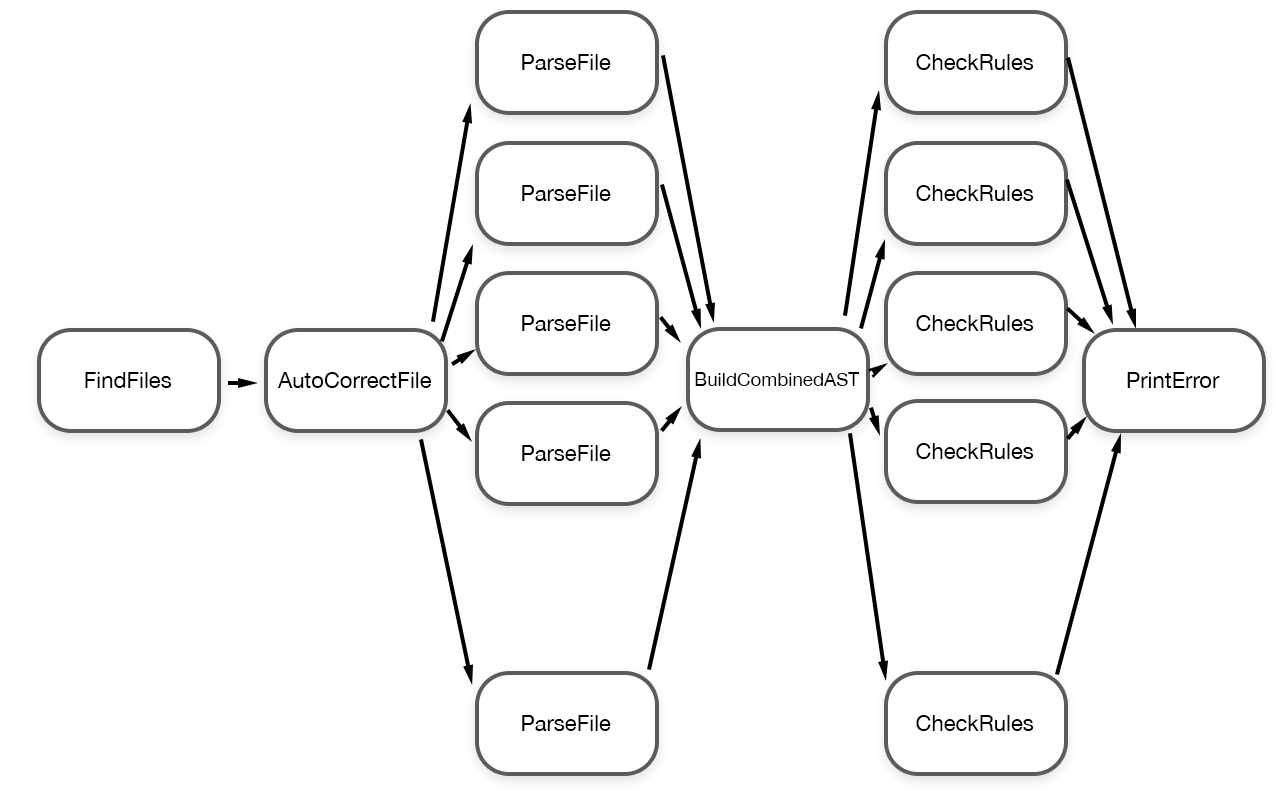
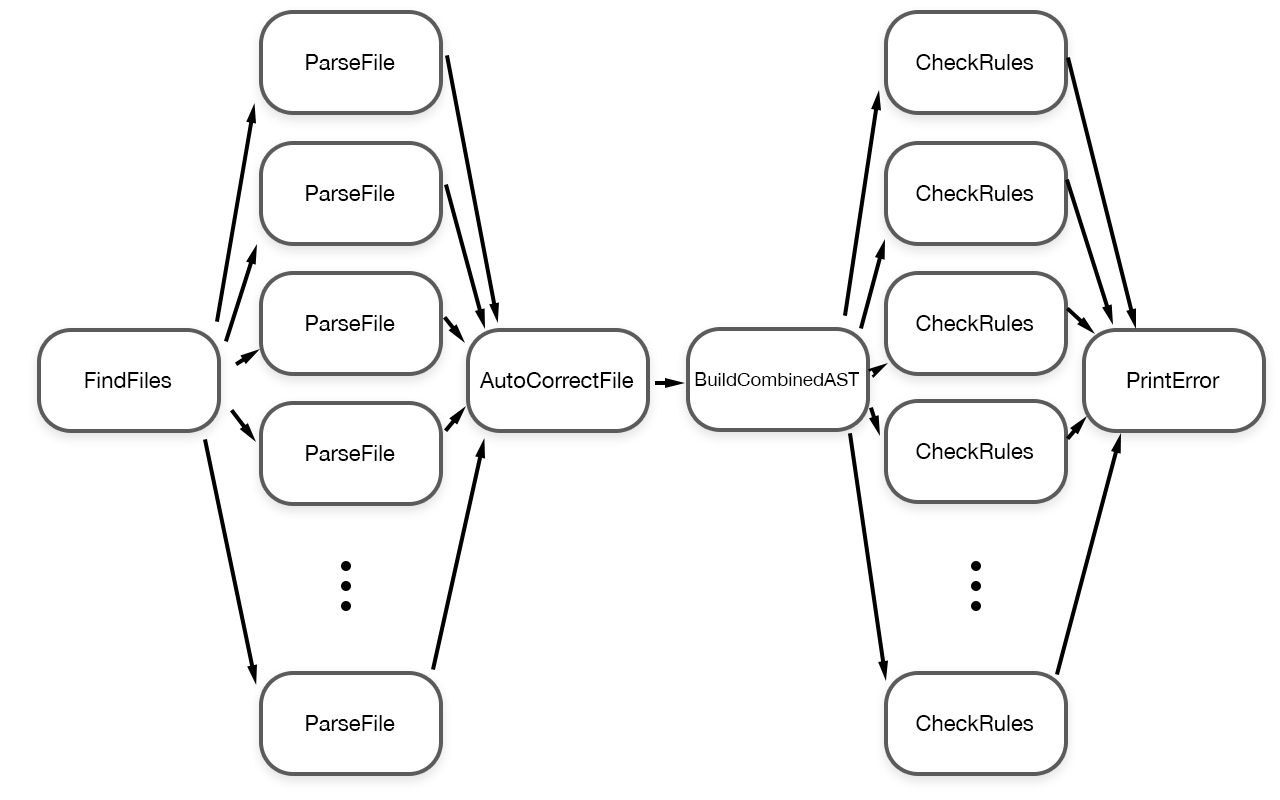
add suggestions for non-private variables in actors (ie safe/unsafe); updated readme to match reworked flynnlint

diff --git a/Package.swift b/Package.swift
@@ -11,7 +11,7 @@ let package = Package(
         .library(name: "FlynnLintFramework", targets: ["FlynnLintFramework"])
     ],
     dependencies: [
-		.package(url: "https://github.com/KittyMac/Flynn.git", .branch("ponyrt_v2")),
+		.package(url: "https://github.com/KittyMac/Flynn.git", .branch("master")),
         .package(url: "https://github.com/Carthage/Commandant.git", .upToNextMinor(from: "0.17.0")),
         .package(url: "https://github.com/KittyMac/SourceKitten.git", .branch("roc_master")),
         .package(url: "https://github.com/jpsim/Yams.git", from: "3.0.0"),

diff --git a/Sources/FlynnLintFramework/Rules/PrivateFunctionInActorRule.swift b/Sources/FlynnLintFramework/Rules/PrivateFunctionInActorRule.swift
@@ -19,7 +19,7 @@ struct PrivateFunctionInActorRule: Rule {
     let description = RuleDescription(
         identifier: "actors_private_func",
         name: "Access Level Violation",
-        description: "Non-private functions are not allowed in Actors; make this private, a behavior, or label it safe.",
+        description: "Non-private functions are not allowed in Actors; make this private, safe/unsafe, or a behavior",
         syntaxTriggers: [.class, .extension],
         nonTriggeringExamples: [
             Example("class SomeClass {}\n"),

diff --git a/Sources/FlynnLintFramework/Rules/PrivateVariablesInActorRule.swift b/Sources/FlynnLintFramework/Rules/PrivateVariablesInActorRule.swift
@@ -18,7 +18,7 @@ struct PrivateVariablesInActorRule: Rule {
     let description = RuleDescription(
         identifier: "actors_private_vars",
         name: "Access Level Violation",
-        description: "Non-private variables are not allowed in Actors.",
+        description: "Non-private variables are not allowed in Actors; make this private or safe/unsafe",
         syntaxTriggers: [.class, .extension],
         nonTriggeringExamples: [
             Example("class SomeClass {}\n"),

diff --git a/README.md b/README.md
@@ -22,8 +22,8 @@ pipeline = FindFiles(["swift"]) |>
 Each node in the graph is a Flynn actor.  An actor is and "island of serialization in a sea of concurrency", where an actor processes sequentually but concurrently to all other actors.
 
 **FindFiles** - walks the target directories looking for files ending in ".swift", flows the file path  
-**AutoCorrectFile** - checks to see if the file contains ``::BEHAVIOR`` or ``::ACTOR`` and replaces with templates, flows the file path  
 **ParseFile** - uses SourceKitten to parse the Swift file into syntax structures, flows a ``FileSyntax`` with this info  
+**AutogenerateExternalBehaviors** - checks the file for internal behaviors ( private functions which start with "_be" ) and automatically generates external behaviors if needed  
 **BuildCombinedAST** - combines all ``FileSyntax`` together into an ``AST``, which represents the syntax structure of all files in the program; flows individual files + combined AST  
 **CheckRules** - Checks the file against the entire ruleset, using file structure and combined AST, flows any errors found  
 **PrintError** - Prints the errors to the console, in format appropriate for Xcode error/warning display
